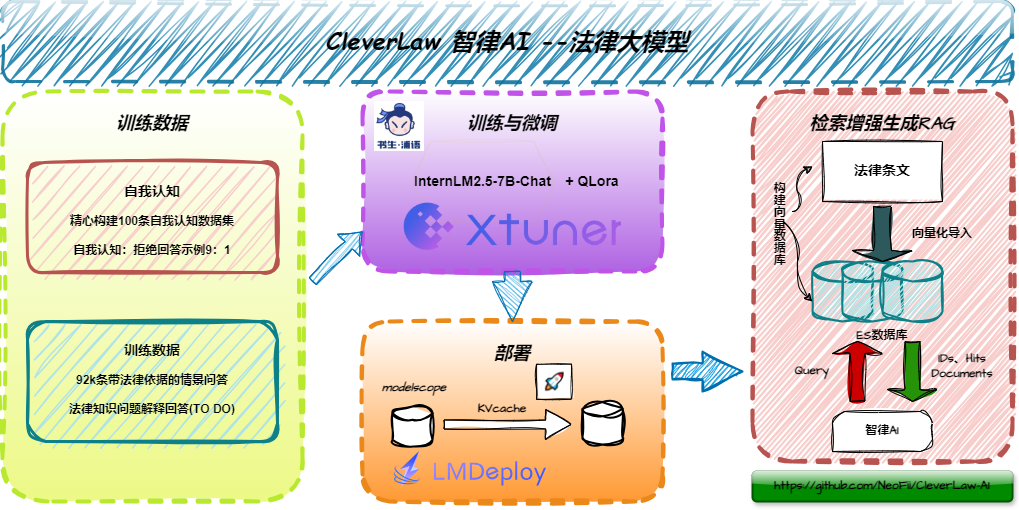
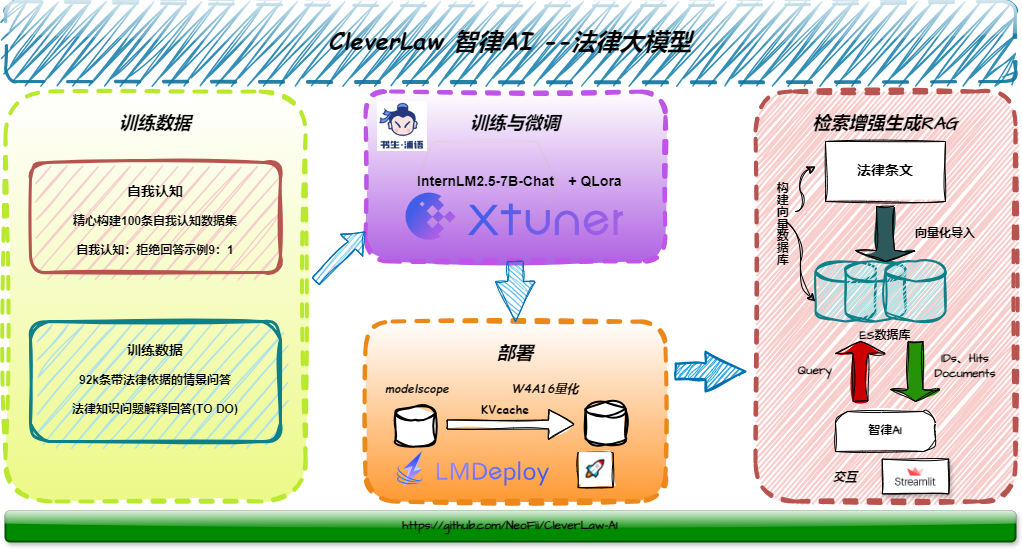
update README

diff --git a/README.md b/README.md
@@ -1,11 +1,27 @@
 # CleverLaw-AI
 
+
+## 目录
+- [CleverLaw-AI](#cleverlaw-ai)
+  - [目录](#目录)
+    - [项目简介](#项目简介)
+    - [架构图](#架构图)
+    - [模型下载](#模型下载)
+    - [项目功能](#项目功能)
+    - [训练数据](#训练数据)
+    - [技术方案](#技术方案)
+    - [致谢](#致谢)
+
 ### 项目简介
-智律AI(CleverLaw-AI)是基于InternLM微调，应用于法律垂直领域的专业大模型。旨在从专业的角度为用户提供便捷、准确的法律咨询服务。通过与智律AI对话，用户可以获取关于法律问题的解答、建议和指导，从而更好地了解自己的权利和义务，有效解决法律难题。
+CleverLaw-AI(智律AI)是基于InternLM微调，应用于法律垂直领域的专业大模型。旨在从专业的角度为用户提供便捷、准确的法律咨询服务。通过与CleverLaw-AI对话，用户可以获取关于法律问题的解答、建议和指导以及法律词条的准确解释，从而更好地了解自己的权利和义务，有效解决法律难题。
 
 ### 架构图
 
 ![架构图](./assets/ProjectArchitecture.png)
+
+### 模型下载
+
+CleverLaw-AI已上线ModelScope，模型下载地址:[CleverLaw-AI](https://www.modelscope.cn/models/lf9080/CleverLaw-AI)
 
 ### 项目功能
  - 智律AI提供基础的AI大模型对话功能，通过与智律AI对话，用户可以获取关于法律问题的解答、建议和指导，从而更好地了解自己的权利和义务，有效解决法律难题。通过提问让模型给出专业的回答，满足法律问题的查询需求和法律词条的查询需求。
